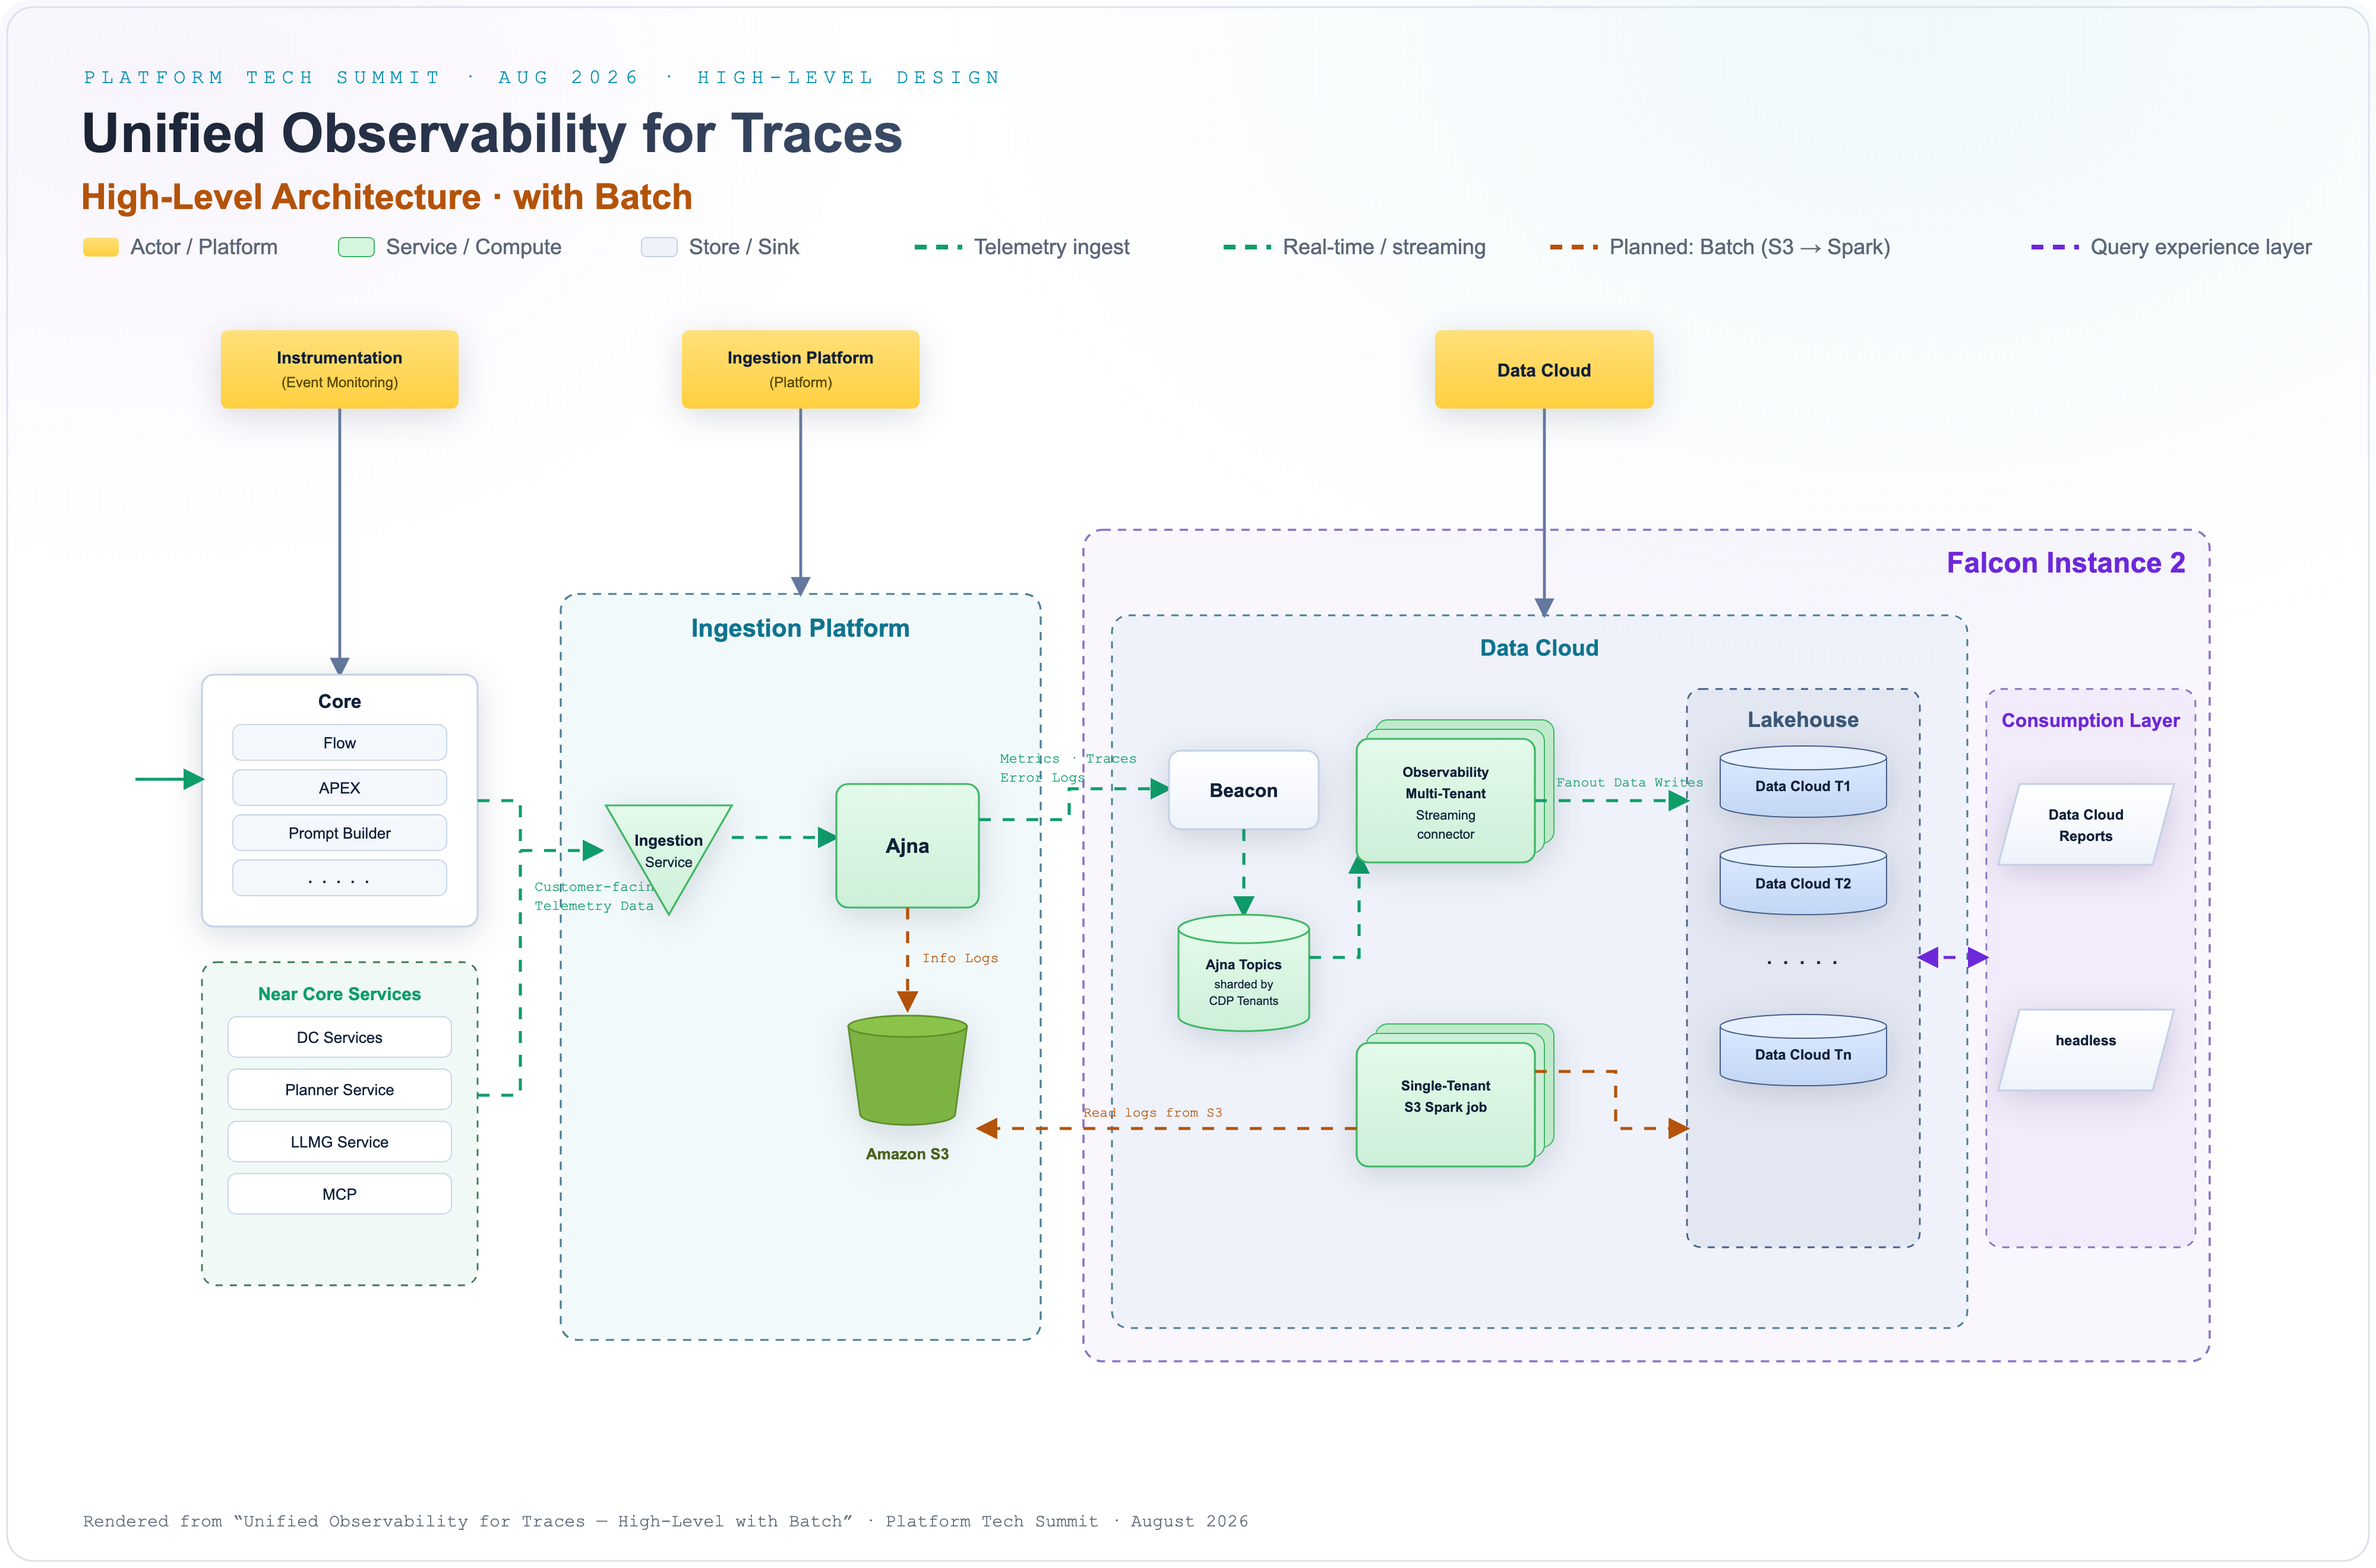
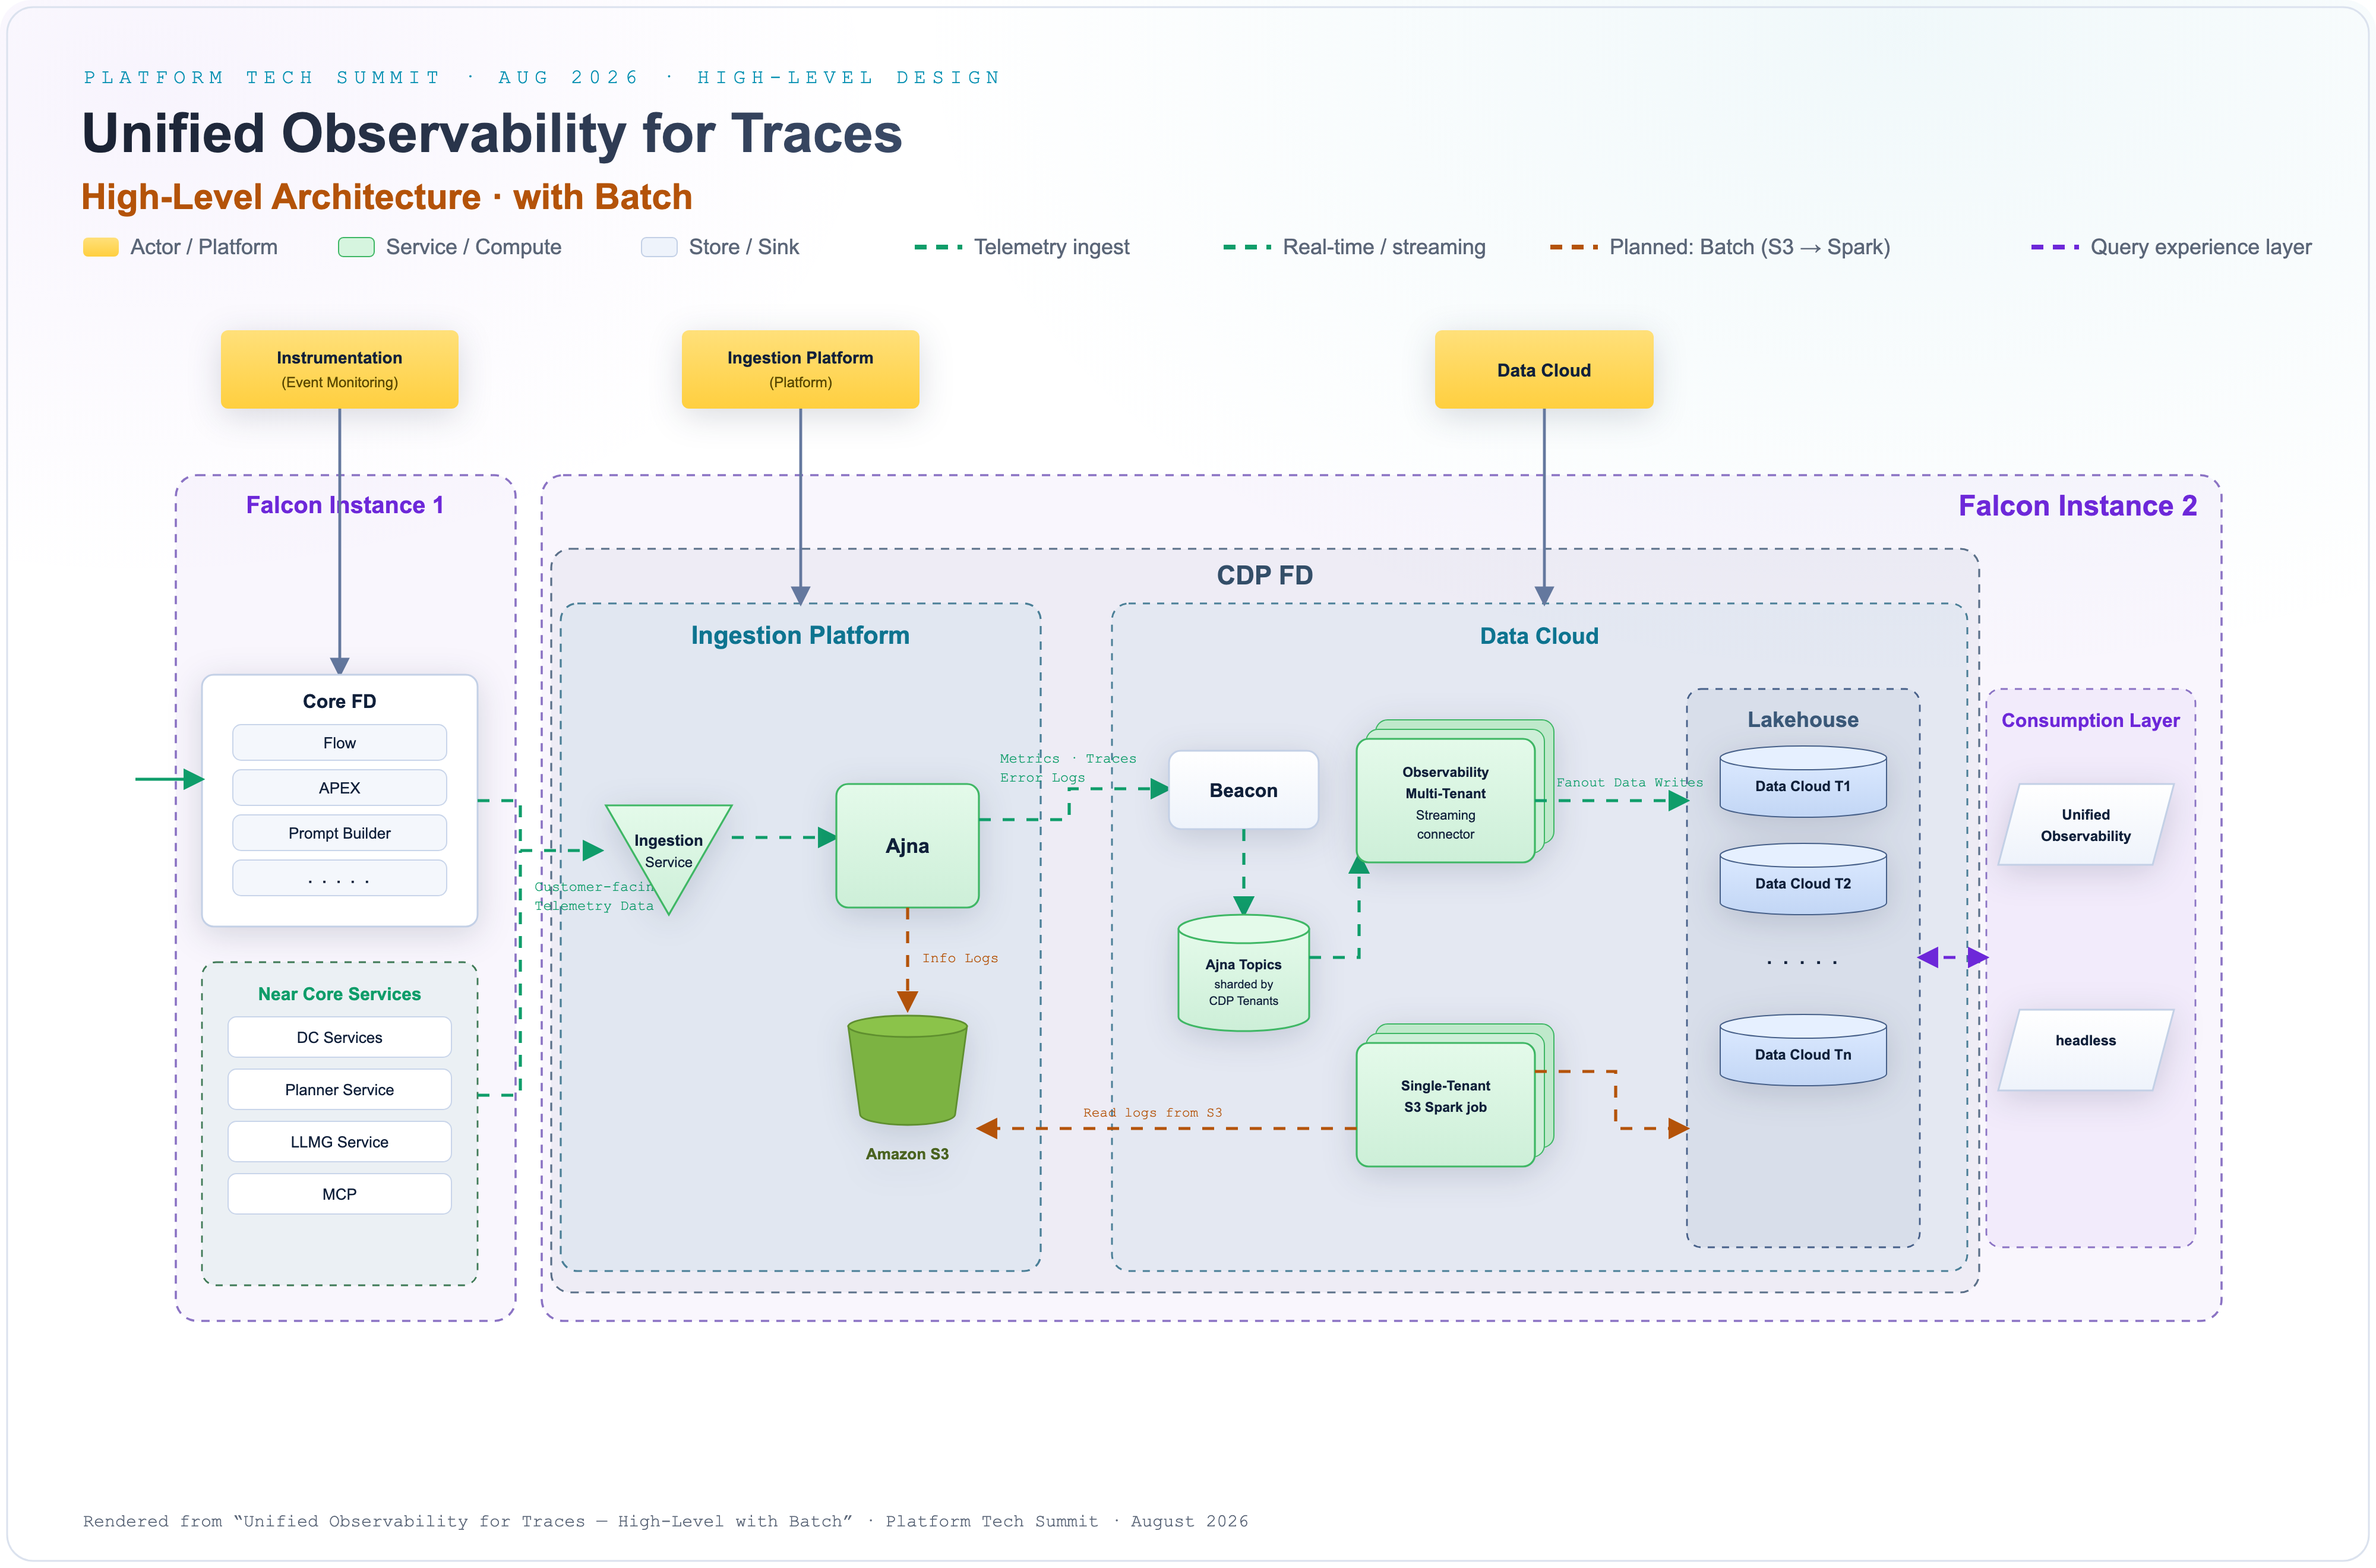
pre-headless: nested Falcon/CDP boundaries + relabels
Diagram (SVG/PNG/GIF/HTML) and narrative prose:
- New outer "CDP FD" box grouping Ingestion Platform + Data Cloud
- Falcon Instance 2 expanded to enclose CDP FD (+ Consumption)
- New "Falcon Instance 1" box around Core FD + Near Core Services
- "Core" -> "Core FD"
- "Data Cloud Reports" -> "Unified Observability"
- Falcon Instance 1 sized to match Falcon Instance 2 vertically;
  Ingestion Platform and Data Cloud boxes equal height
- Narrative prose updated to match (Mulesoft->Platform, Concierge->headless,
  Data Cloud Reports->Unified Observability, Falcon Instance 1/2, Core FD)

diff --git a/pre-headless/index.html b/pre-headless/index.html
@@ -214,9 +214,9 @@
       <h1 class="title">Unified Observability for Traces<br /><span class="with-batch">High-Level Architecture · with Batch</span></h1>
       <p class="subtitle">
         End-to-end telemetry pipeline that carries customer-facing traces, metrics, and logs
-        from Core &amp; Near-Core services through the CDP Ingestion Fabric into a multi-tenant
-        Data Cloud Lakehouse — combining a <b style="color:var(--cyan)">real-time streaming path</b>
-        and an <b style="color:var(--amber)">S3-backed batch path</b> for consumption by reports and agents.
+        from Core FD &amp; Near-Core services through the CDP FD Ingestion Platform into a multi-tenant
+        Data Cloud Lakehouse — combining a <b style="color:var(--green)">real-time streaming path</b>
+        and an <b style="color:var(--amber)">S3-backed batch path</b> for consumption by Unified Observability and headless.
       </p>
     </div>
     <div class="meta-card">
@@ -284,20 +284,30 @@
           </defs>
 
           <!-- ===== Boundary containers ===== -->
-          <!-- CDP FD -->
-          <rect x="372" y="250" width="404" height="628" rx="14" fill="rgba(8,145,178,.05)"
-                stroke="#4a7f97" stroke-width="1.6" stroke-dasharray="7 6"></rect>
-          <text class="boundary-label" x="574" y="286" text-anchor="middle" fill="#0e7490" font-size="21">Ingestion Platform</text>
-
-          <!-- Falcon Instance -->
-          <rect x="812" y="196" width="948" height="700" rx="16" fill="rgba(109,40,217,.045)"
+          <!-- Falcon Instance 1 (outer): Core FD + Near Core Services -->
+          <rect x="48" y="150" width="286" height="712" rx="18" fill="rgba(109,40,217,.045)"
                 stroke="#8b73c4" stroke-width="1.8" stroke-dasharray="7 6"></rect>
-          <text class="boundary-label" x="1740" y="232" text-anchor="end" fill="#6d28d9" font-size="24" font-weight="800">Falcon Instance 2</text>
+          <text class="boundary-label" x="191" y="182" text-anchor="middle" fill="#6d28d9" font-size="20" font-weight="800">Falcon Instance 1</text>
 
-          <!-- Data Cloud (CDP FD) inner -->
-          <rect x="836" y="268" width="720" height="600" rx="14" fill="rgba(8,145,178,.04)"
+          <!-- Falcon Instance 2 (outer): CDP FD + Consumption -->
+          <rect x="356" y="150" width="1414" height="712" rx="18" fill="rgba(109,40,217,.045)"
+                stroke="#8b73c4" stroke-width="1.8" stroke-dasharray="7 6"></rect>
+          <text class="boundary-label" x="1750" y="184" text-anchor="end" fill="#6d28d9" font-size="24" font-weight="800">Falcon Instance 2</text>
+
+          <!-- CDP FD (groups Ingestion Platform + Data Cloud) -->
+          <rect x="364" y="212" width="1202" height="626" rx="16" fill="rgba(51,78,104,.055)"
+                stroke="#5b7089" stroke-width="1.6" stroke-dasharray="7 6"></rect>
+          <text class="boundary-label" x="965" y="242" text-anchor="middle" fill="#334e68" font-size="22" font-weight="800">CDP FD</text>
+
+          <!-- Ingestion Platform inner -->
+          <rect x="372" y="258" width="404" height="562" rx="14" fill="rgba(8,145,178,.05)"
+                stroke="#4a7f97" stroke-width="1.6" stroke-dasharray="7 6"></rect>
+          <text class="boundary-label" x="574" y="292" text-anchor="middle" fill="#0e7490" font-size="21">Ingestion Platform</text>
+
+          <!-- Data Cloud inner -->
+          <rect x="836" y="258" width="720" height="562" rx="14" fill="rgba(8,145,178,.04)"
                 stroke="#4a7f97" stroke-width="1.5" stroke-dasharray="6 6"></rect>
-          <text class="boundary-label" x="1196" y="302" text-anchor="middle" fill="#0e7490" font-size="19">Data Cloud</text>
+          <text class="boundary-label" x="1196" y="292" text-anchor="middle" fill="#0e7490" font-size="19">Data Cloud</text>
 
           <!-- Lakehouse inner -->
           <rect x="1320" y="330" width="196" height="470" rx="12" fill="rgba(71,96,137,.07)"
@@ -332,13 +342,13 @@
 
           <!-- sticky feed arrows -->
           <path class="edge feed" d="M186,94 L186,318" marker-end="url(#arrowFeed)"></path>
-          <path class="edge feed" d="M574,94 L574,250" marker-end="url(#arrowFeed)"></path>
-          <path class="edge feed" d="M1200,94 L1200,268" marker-end="url(#arrowFeed)"></path>
+          <path class="edge feed" d="M574,94 L574,258" marker-end="url(#arrowFeed)"></path>
+          <path class="edge feed" d="M1200,94 L1200,258" marker-end="url(#arrowFeed)"></path>
 
           <!-- ===== Core ===== -->
           <g class="node-shadow">
             <rect x="70" y="318" width="232" height="212" rx="10" fill="#f4f7fc" stroke="#c3d0e6" stroke-width="1.5"></rect>
-            <text x="186" y="346" text-anchor="middle" class="n-label" font-size="16">Core</text>
+            <text x="186" y="346" text-anchor="middle" class="n-label" font-size="16">Core FD</text>
             <g font-size="13" text-anchor="middle">
               <rect x="96" y="360" width="180" height="30" rx="7" fill="#ffffff" stroke="#c9d5ea"></rect><text x="186" y="380">Flow</text>
               <rect x="96" y="398" width="180" height="30" rx="7" fill="#ffffff" stroke="#c9d5ea"></rect><text x="186" y="418">APEX</text>
@@ -477,8 +487,8 @@
           <!-- ===== Consumption Layer (parallelograms) ===== -->
           <g class="node-shadow">
             <polygon points="1600,410 1730,410 1712,478 1582,478" fill="url(#gStore)" stroke="#c3d0e6" stroke-width="1.5"></polygon>
-            <text x="1656" y="440" text-anchor="middle" font-size="12" font-weight="700">Data Cloud</text>
-            <text x="1656" y="458" text-anchor="middle" font-size="12" font-weight="700">Reports</text>
+            <text x="1656" y="440" text-anchor="middle" font-size="12" font-weight="700">Unified</text>
+            <text x="1656" y="458" text-anchor="middle" font-size="12" font-weight="700">Observability</text>
           </g>
           <g class="node-shadow">
             <polygon points="1600,600 1730,600 1712,668 1582,668" fill="url(#gStore)" stroke="#c3d0e6" stroke-width="1.5"></polygon>
@@ -492,10 +502,10 @@
     <div class="callout">
       <span class="ic">⚡</span>
       <p><b>Two coordinated paths, one lakehouse.</b> Structured signals — metrics, traces and error logs —
-      travel the <b style="color:var(--cyan)">real-time streaming path</b> (Beacon → tenant-sharded Ajna Topics →
+      travel the <b style="color:var(--green)">real-time streaming path</b> (Beacon → tenant-sharded Ajna Topics →
       Observability Multi-Tenant Streaming connector → fan-out writes). High-volume <b>Info Logs</b> take the
       <b>batch path</b> (Ajna → Amazon S3 → Single-Tenant S3 Spark job → Lakehouse). Both converge on the
-      per-tenant Data Cloud tables that power Reports and the Concierge Agent.</p>
+      per-tenant Data Cloud tables that power <b>Unified Observability</b> and <b>headless</b> access.</p>
     </div>
   </section>
 
@@ -517,13 +527,13 @@
       <div class="step tel">
         <div class="n">STEP 02 · INGEST</div>
         <h3>Ingestion Service → Ajna</h3>
-        <p>Telemetry lands in the <b>Ingestion Service</b> (via the Mulesoft ingestion platform) inside
+        <p>Telemetry lands in the <b>Ingestion Service</b> (part of the <b>Ingestion Platform</b>) inside
         <b>CDP FD</b> and is funneled into <b>Ajna</b>, the ingestion backbone.</p>
       </div>
       <div class="step">
         <div class="n">STEP 03 · SPLIT (STREAMING)</div>
         <h3>Metrics, Traces &amp; Error Logs → Beacon</h3>
-        <p>Ajna routes structured signals to <b>Beacon</b> inside the <b>Falcon Instance</b>, entering the
+        <p>Ajna routes structured signals to <b>Beacon</b> inside <b>Falcon Instance 2</b>, entering the
         real-time path for low-latency processing.</p>
       </div>
       <div class="step batch">
@@ -552,9 +562,9 @@
       </div>
       <div class="step bidi" style="border-left-color:var(--violet)">
         <div class="n" style="color:var(--violet)">STEP 07 · CONSUME</div>
-        <h3>Lakehouse → Reports &amp; Agents</h3>
-        <p>The <b>Consumption Layer</b> queries the Lakehouse: <b>Data Cloud Reports</b> for analytics and the
-        <b>Concierge Agent</b> for conversational, agentic access.</p>
+        <h3>Lakehouse → Unified Observability &amp; headless</h3>
+        <p>The <b>Consumption Layer</b> queries the Lakehouse: <b>Unified Observability</b> for analytics and
+        <b>headless</b> for conversational, agentic access.</p>
       </div>
     </div>
   </section>
@@ -568,15 +578,15 @@
     </div>
     <div class="zones">
       <div class="zone">
-        <div class="zh"><span class="dot" style="background:var(--green)"></span> Source · Core &amp; Near-Core <span class="tag">SALESFORCE CORE</span></div>
+        <div class="zh"><span class="dot" style="background:var(--green)"></span> Falcon Instance 1 · Core FD &amp; Near-Core <span class="tag">SALESFORCE CORE</span></div>
         <ul>
           <li><b>Instrumentation (Event Monitoring)</b><span>Emits customer-facing telemetry from platform runtime.</span></li>
-          <li><b>Core</b><span>Flow, APEX, Prompt Builder and other first-class runtimes.</span></li>
+          <li><b>Core FD</b><span>Flow, APEX, Prompt Builder and other first-class runtimes.</span></li>
           <li><b>Near Core Services</b><span>DC Services, Planner Service, LLMG Service, MCP.</span></li>
         </ul>
       </div>
       <div class="zone">
-        <div class="zh"><span class="dot" style="background:var(--cyan)"></span> CDP FD · Ingestion Fabric <span class="tag">MULESOFT</span></div>
+        <div class="zh"><span class="dot" style="background:var(--cyan)"></span> CDP FD · Ingestion Platform <span class="tag">PLATFORM</span></div>
         <ul>
           <li><b>Ingestion Service</b><span>Entry funnel for customer-facing telemetry data.</span></li>
           <li><b>Ajna</b><span>Ingestion backbone; splits structured signals vs. info logs.</span></li>
@@ -584,7 +594,7 @@
         </ul>
       </div>
       <div class="zone">
-        <div class="zh"><span class="dot" style="background:var(--violet)"></span> Falcon · Data Cloud (CDP FD) <span class="tag">MULTI-TENANT</span></div>
+        <div class="zh"><span class="dot" style="background:var(--violet)"></span> Falcon Instance 2 · Data Cloud <span class="tag">MULTI-TENANT</span></div>
         <ul>
           <li><b>Beacon</b><span>Real-time entry point for metrics, traces &amp; error logs.</span></li>
           <li><b>Ajna Topics</b><span>Streams sharded by CDP tenant for isolation.</span></li>
@@ -596,8 +606,8 @@
         <div class="zh"><span class="dot" style="background:#6f9bff"></span> Lakehouse &amp; Consumption <span class="tag">DATA CLOUD</span></div>
         <ul>
           <li><b>Lakehouse (Data Cloud T1…Tn)</b><span>Per-tenant tables — the unified observability store.</span></li>
-          <li><b>Data Cloud Reports</b><span>Analytics &amp; reporting surface over the lakehouse.</span></li>
-          <li><b>Concierge Agent</b><span>Agentic, conversational access to observability data.</span></li>
+          <li><b>Unified Observability</b><span>Analytics &amp; reporting surface over the lakehouse.</span></li>
+          <li><b>headless</b><span>Agentic, conversational access to observability data.</span></li>
         </ul>
       </div>
     </div>
